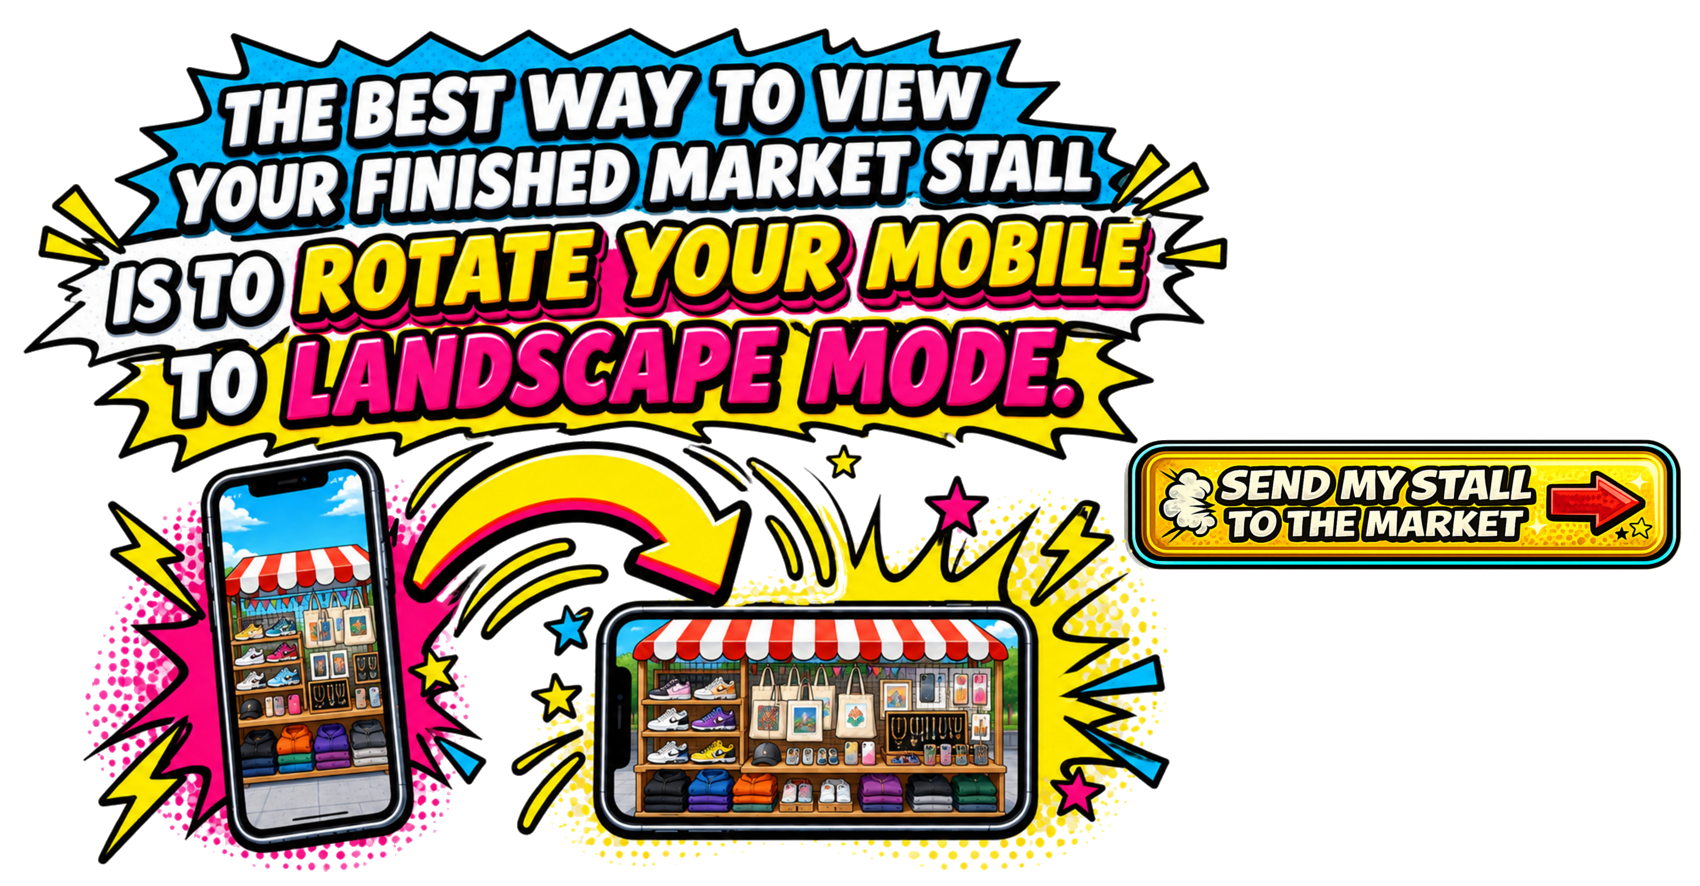
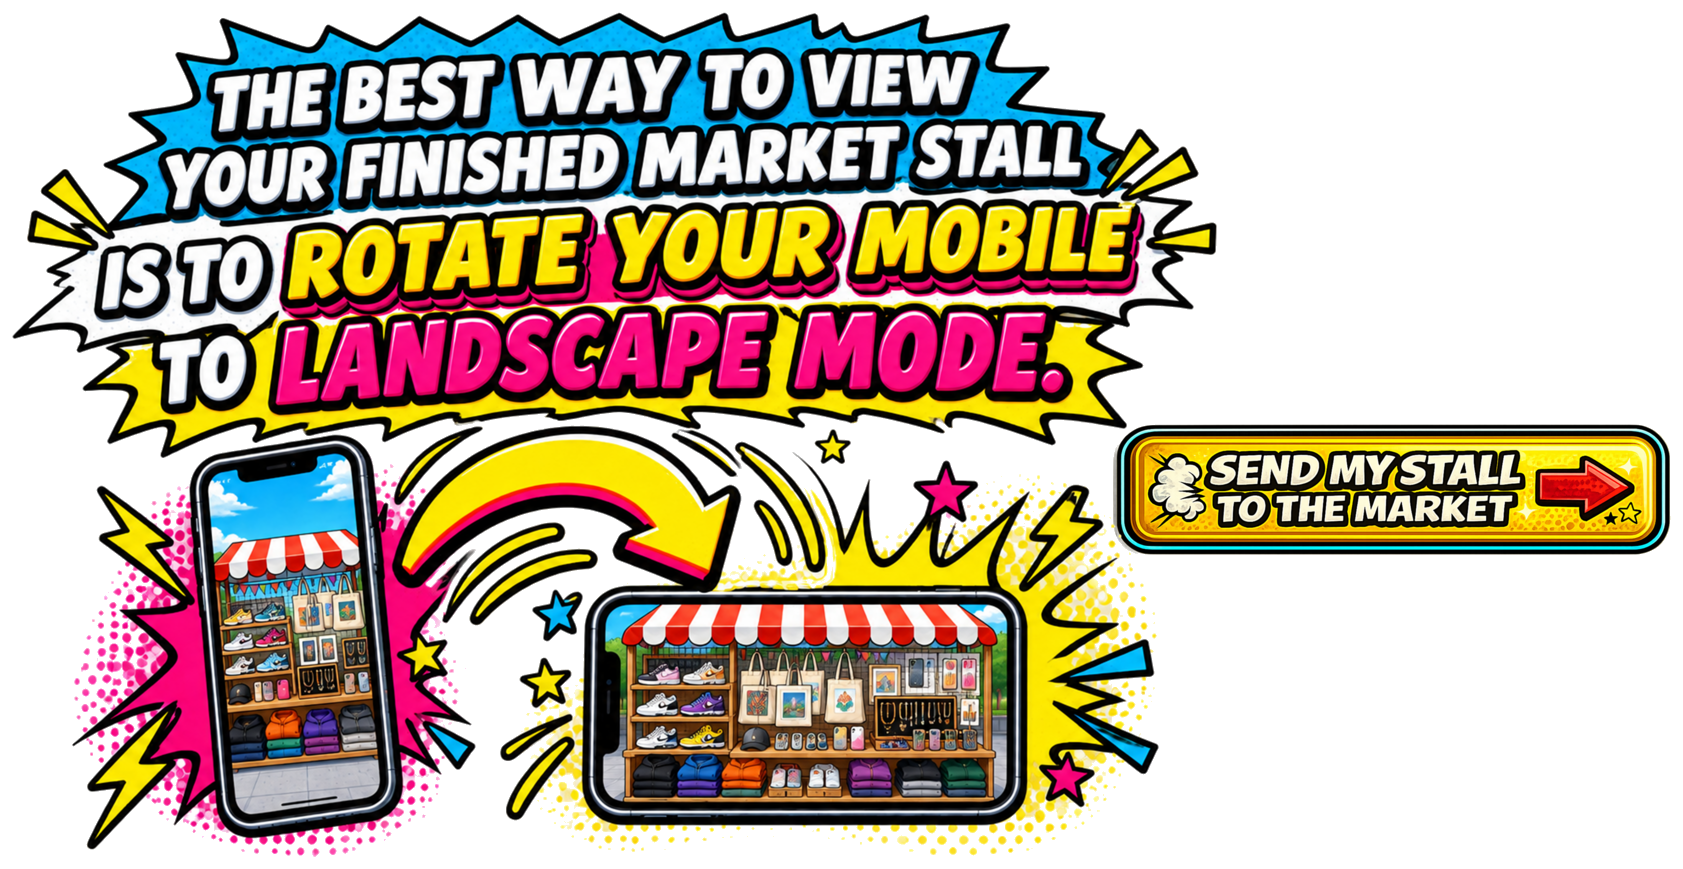
Auto-slide market stalls and keep folder carts matching desktop on mobile.

diff --git a/frontend/src/components/market/MarketStallSlider.jsx b/frontend/src/components/market/MarketStallSlider.jsx
@@ -1,4 +1,4 @@
-import { lazy, Suspense, useLayoutEffect, useRef, useState } from 'react'
+import { lazy, Suspense, useEffect, useLayoutEffect, useRef, useState } from 'react'
 import { stallToMarketStallProps } from '../../services/stallDisplay.js'
 import StallLoadingScreen from '../StallLoadingScreen.jsx'
 
@@ -7,6 +7,7 @@ const MarketStall = lazy(() => import('../MarketStall'))
 /** Native stall art width — cards render at this size then scale down as one piece. */
 const STALL_DESIGN_WIDTH = 1024
 const STALL_DESIGN_HEIGHT = 576
+const AUTO_SLIDE_MS = 4200
 
 function StallCard({ stall, onOpen }) {
   const props = stallToMarketStallProps(stall)
@@ -65,9 +66,52 @@ function StallCard({ stall, onOpen }) {
 /**
  * Market stall slider — one full stall visible at a time.
  * Each card scales the whole stall (art + text) together so proportions stay correct.
- * Swipe horizontally to move between stalls.
+ * Auto-slides between published stalls; swipe still works.
  */
-export default function MarketStallSlider({ stalls = [], loading = false, onStallOpen }) {
+export default function MarketStallSlider({
+  stalls = [],
+  loading = false,
+  onStallOpen,
+  paused = false,
+}) {
+  const railRef = useRef(null)
+  const indexRef = useRef(0)
+  const holdRef = useRef(false)
+
+  useEffect(() => {
+    const rail = railRef.current
+    if (!rail) return undefined
+
+    const syncIndex = () => {
+      const width = rail.clientWidth
+      if (!width) return
+      indexRef.current = Math.round(rail.scrollLeft / width) % Math.max(stalls.length, 1)
+    }
+
+    rail.addEventListener('scroll', syncIndex, { passive: true })
+    return () => rail.removeEventListener('scroll', syncIndex)
+  }, [loading, stalls.length])
+
+  useEffect(() => {
+    if (loading || paused || stalls.length < 2) return undefined
+    if (typeof window !== 'undefined' && window.matchMedia('(prefers-reduced-motion: reduce)').matches) {
+      return undefined
+    }
+
+    const id = window.setInterval(() => {
+      if (holdRef.current) return
+      const rail = railRef.current
+      if (!rail) return
+      const width = rail.clientWidth
+      if (!width) return
+      const next = (indexRef.current + 1) % stalls.length
+      indexRef.current = next
+      rail.scrollTo({ left: next * width, behavior: 'smooth' })
+    }, AUTO_SLIDE_MS)
+
+    return () => window.clearInterval(id)
+  }, [loading, paused, stalls.length])
+
   if (loading) {
     return (
       <div className="vm-market-loading">
@@ -76,13 +120,27 @@ export default function MarketStallSlider({ stalls = [], loading = false, onStal
     )
   }
 
+  const hold = () => {
+    holdRef.current = true
+  }
+  const release = () => {
+    holdRef.current = false
+  }
+
   return (
     <div className="vm-market-slider">
       <div
+        ref={railRef}
         className="vm-market-rail"
         tabIndex={0}
         role="region"
         aria-label="Published market stalls"
+        onPointerEnter={hold}
+        onPointerLeave={release}
+        onFocus={hold}
+        onBlur={release}
+        onTouchStart={hold}
+        onTouchEnd={release}
       >
         {stalls.map((stall) => (
           <StallCard key={stall.id} stall={stall} onOpen={onStallOpen} />

diff --git a/frontend/src/components/account/MyStallsPanel.jsx b/frontend/src/components/account/MyStallsPanel.jsx
@@ -1,4 +1,4 @@
-import { lazy, Suspense, useEffect, useMemo, useState } from 'react'
+import { lazy, Suspense, useEffect, useLayoutEffect, useMemo, useRef, useState } from 'react'
 import { Link, useSearchParams } from 'react-router-dom'
 import StallLoadingScreen from '../StallLoadingScreen.jsx'
 import DashboardTraderMenu from './DashboardTraderMenu.jsx'
@@ -11,9 +11,31 @@ import './FolderViews.css'
 
 const MarketStall = lazy(() => import('../MarketStall'))
 
+/** Render at PC stall size, then scale down as one piece so mobile matches desktop. */
+const STALL_DESIGN_WIDTH = 1024
+const STALL_DESIGN_HEIGHT = 576
+
 function FolderStallCard({ summary, detail, loadingDetail, onStartEdit, onDelete }) {
   const props = detail ? stallToMarketStallProps(detail) : null
   const updatedLabel = summary.updated_at ? formatDisplayDate(summary.updated_at) : ''
+  const frameRef = useRef(null)
+  const [scale, setScale] = useState(0.45)
+
+  useLayoutEffect(() => {
+    const node = frameRef.current
+    if (!node || typeof ResizeObserver === 'undefined') return undefined
+
+    const update = () => {
+      const width = node.clientWidth
+      if (!width) return
+      setScale(width / STALL_DESIGN_WIDTH)
+    }
+
+    update()
+    const observer = new ResizeObserver(update)
+    observer.observe(node)
+    return () => observer.disconnect()
+  }, [Boolean(props), loadingDetail])
 
   return (
     <article className="vm-folder__stall">
@@ -33,9 +55,24 @@ function FolderStallCard({ summary, detail, loadingDetail, onStartEdit, onDelete
       <div className="vm-folder__preview">
         {loadingDetail && <StallLoadingScreen />}
         {!loadingDetail && props && (
-          <Suspense fallback={<StallLoadingScreen />}>
-            <MarketStall {...props} className="vm-market-stall vm-folder__cart" />
-          </Suspense>
+          <div
+            className="vm-folder__scale"
+            ref={frameRef}
+            style={{ aspectRatio: `${STALL_DESIGN_WIDTH} / ${STALL_DESIGN_HEIGHT}` }}
+          >
+            <div
+              className="vm-folder__scale-inner"
+              style={{
+                width: STALL_DESIGN_WIDTH,
+                height: STALL_DESIGN_HEIGHT,
+                transform: `scale(${scale})`,
+              }}
+            >
+              <Suspense fallback={<StallLoadingScreen />}>
+                <MarketStall {...props} className="vm-market-stall vm-folder__cart" />
+              </Suspense>
+            </div>
+          </div>
         )}
         {!loadingDetail && !props && (
           <p className="vm-muted">Could not load stall preview.</p>

diff --git a/frontend/src/styles/marketplace.css b/frontend/src/styles/marketplace.css
@@ -1232,9 +1232,9 @@
 .vm-folder {
   position: relative;
   display: grid;
-  gap: 22px;
-  min-height: min(70vh, 640px);
-  padding: 16px 8px 24px;
+  gap: 14px;
+  min-height: 0;
+  padding: 8px 4px 6px;
   background: #ffffff;
 }
 
@@ -1340,15 +1340,29 @@
   width: 100%;
   overflow: hidden;
   border-radius: 12px;
-  background: #f4efe6;
+  background: #ffffff;
+}
+
+.vm-folder__scale {
+  position: relative;
+  width: 100%;
+  overflow: hidden;
+}
+
+.vm-folder__scale-inner {
+  position: absolute;
+  left: 0;
+  top: 0;
+  transform-origin: top left;
 }
 
 .vm-folder__cart {
   max-width: none !important;
   width: 100% !important;
+  height: 100% !important;
   margin: 0 !important;
-  box-shadow: none;
-  border-radius: 0;
+  box-shadow: none !important;
+  border-radius: 0 !important;
 }
 
 .vm-folder__stall-actions {
@@ -1363,13 +1377,13 @@
   flex-direction: column;
   align-items: center;
   gap: 8px;
-  padding: 20px 0 8px;
+  padding: 6px 0 0;
 }
 
 .vm-folder__send {
   position: relative;
   display: block;
-  width: min(42vw, 220px);
+  width: min(72vw, 420px);
   margin: 0;
   padding: 0;
   border: 0;
@@ -1431,7 +1445,7 @@
 
 @media (max-width: 640px) {
   .vm-folder__send {
-    width: min(48vw, 200px);
+    width: min(86vw, 380px);
   }
 
   .vm-folder__send-status {

diff --git a/frontend/src/pages/MarketPage.jsx b/frontend/src/pages/MarketPage.jsx
@@ -146,7 +146,12 @@ export default function MarketPage() {
           <p className="vm-market-empty">No published stalls yet.</p>
         ) : (
           <>
-            <MarketStallSlider stalls={stalls} loading={loading} onStallOpen={openStall} />
+            <MarketStallSlider
+              stalls={stalls}
+              loading={loading}
+              onStallOpen={openStall}
+              paused={Boolean(focusStall)}
+            />
             <img
               className="vm-market-rotate"
               src={rotateHint}

diff --git a/frontend/src/layouts/MainLayout.css b/frontend/src/layouts/MainLayout.css
@@ -216,7 +216,7 @@
 
 .vm-main--folder {
   max-width: min(100%, 1600px);
-  padding: 16px clamp(40px, 10vw, 88px) 40px;
+  padding: 8px clamp(16px, 4vw, 36px) 8px;
   background: #ffffff;
 }
 
@@ -780,7 +780,7 @@
   }
 
   .vm-main--folder {
-    padding: 12px clamp(20px, 6vw, 32px) 32px;
+    padding: 8px clamp(10px, 3vw, 16px) 8px;
   }
 }
 
